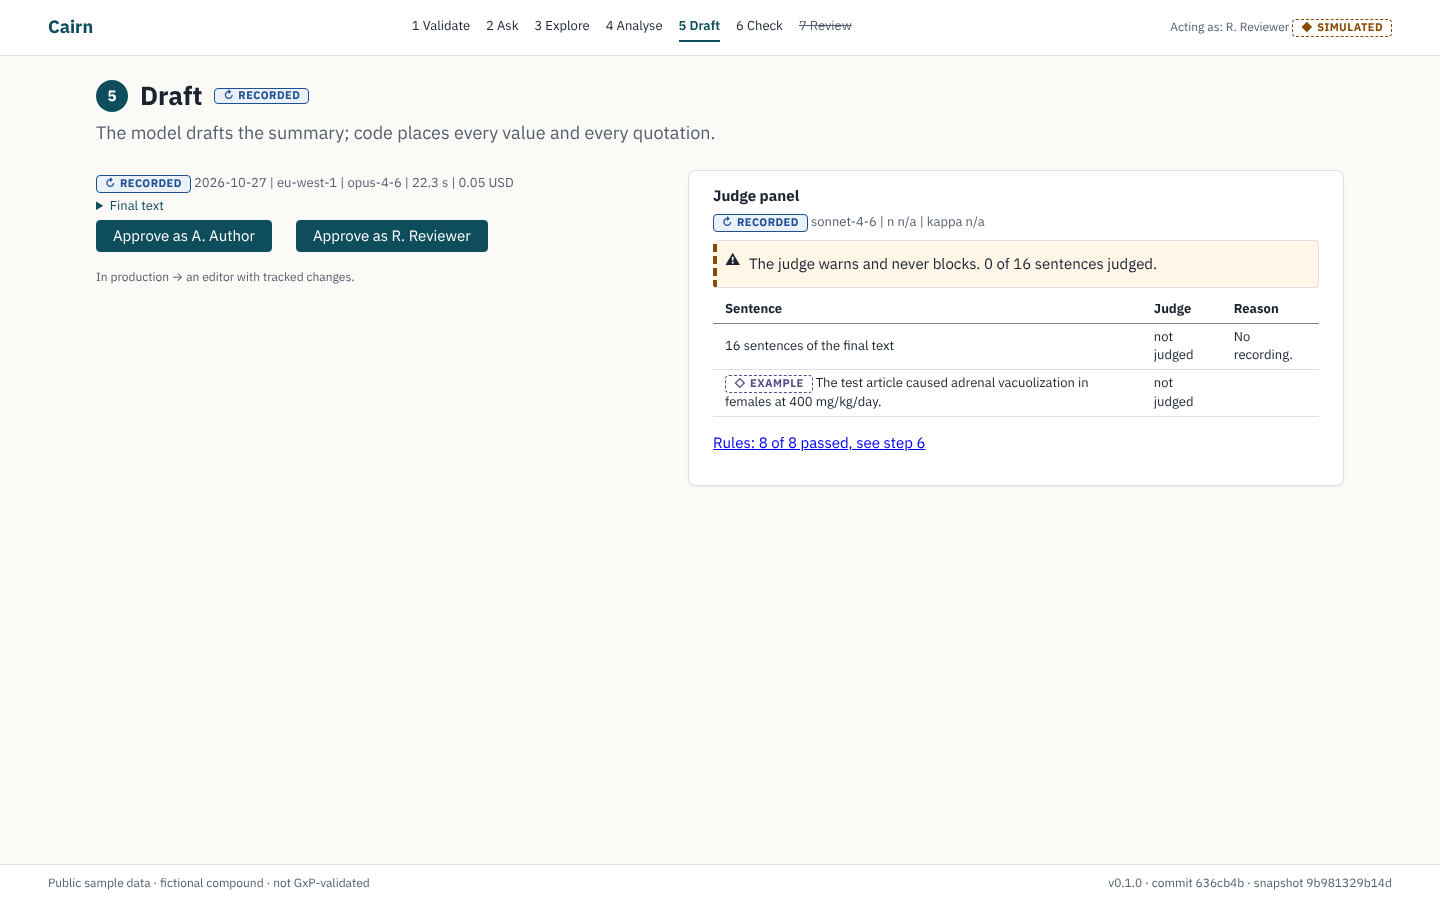
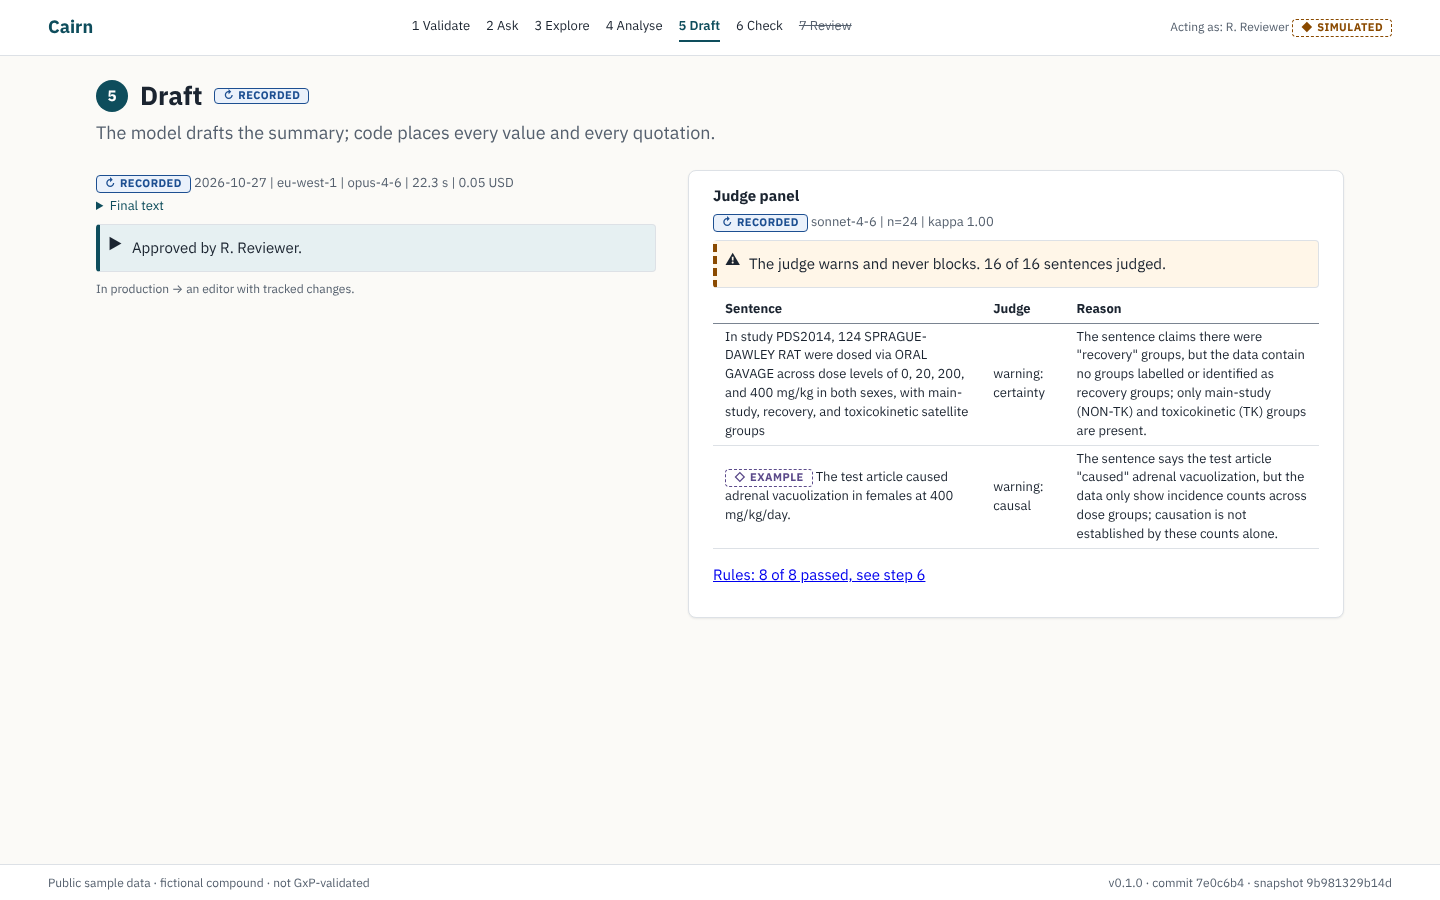
Close phase 05 increment 3 on the user's judge recordings: retake step 5 and 6 screenshots, fix step 5 tests for real recordings

diff --git a/tests/test_web.py b/tests/test_web.py
@@ -1,9 +1,9 @@
 import hashlib
+import importlib
 import json
 import re
 import shutil
 import sqlite3
-import sys
 from pathlib import Path
 
 import pytest
@@ -521,7 +521,13 @@ def _step5_thread(client: TestClient) -> str:
     return id_
 
 
-def test_step5_without_judge_recordings_shows_not_judged_and_the_rules_line() -> None:
+def test_step5_without_judge_recordings_shows_not_judged_and_the_rules_line(
+    tmp_path: Path, monkeypatch: pytest.MonkeyPatch
+) -> None:
+    folder = tmp_path / "recordings"
+    shutil.copytree("recordings", folder, ignore=shutil.ignore_patterns("j-*.json"))
+    for name in ("cairn.web.people", "cairn.web.threads"):
+        monkeypatch.setattr(importlib.import_module(name), "RECORDINGS_DIR", folder)
     with TestClient(create_app()) as client:
         id_ = _step5_thread(client)
         page = client.get(f"/step/5?thread={id_}&actor=R.%20Reviewer").text
@@ -531,6 +537,17 @@ def test_step5_without_judge_recordings_shows_not_judged_and_the_rules_line() ->
         assert "Checks" not in page
         done = client.post("/step/5/approve", data={"thread": id_, "actor": "R. Reviewer"})
         assert "Approved by R. Reviewer" in done.text
+
+
+def test_step5_with_the_real_recordings_shows_real_verdicts(
+    monkeypatch: pytest.MonkeyPatch, tmp_path: Path
+) -> None:
+    monkeypatch.setenv("CAIRN_THREADS_DB", str(tmp_path / "threads.db"))
+    with TestClient(create_app()) as client:
+        id_ = _step5_thread(client)
+        page = client.get(f"/step/5?thread={id_}&actor=R.%20Reviewer").text
+        assert "16 of 16 sentences judged" in page and "sonnet-4-6" in page
+        assert "n=24" in page and "kappa 1.00" in page and "EXAMPLE" in page
 
 
 def test_step5_lists_each_warning_and_the_example_and_approval_still_works(
@@ -553,7 +570,7 @@ def test_step5_lists_each_warning_and_the_example_and_approval_still_works(
     folder = tmp_path / "recordings"
     shutil.copytree("recordings", folder)  # the real draft, no judge files yet
     for name in ("cairn.web.people", "cairn.web.threads"):
-        monkeypatch.setattr(sys.modules[name], "RECORDINGS_DIR", folder)
+        monkeypatch.setattr(importlib.import_module(name), "RECORDINGS_DIR", folder)
     monkeypatch.setenv("CAIRN_THREADS_DB", str(tmp_path / "threads.db"))
     state = gather_state()
     model = recorded_model(folder, "DRAFT", DEFAULT_MODEL)

diff --git a/docs/plans/fase-05-audit-judge/plan.md b/docs/plans/fase-05-audit-judge/plan.md
@@ -19,8 +19,8 @@ Reuse, not rebuild: `canonical.py` (hash), `web/threads.py` (events and per-thre
 
 - [x] 1. Audit chain and SEC-002: an `audit` module with the entry, `append` and the pure `verify_chain`; table in the threads SQLite file; events written in `web/threads.py` inside the thread lock (start, decisions, confirm, verify_final, refusals 403 and 409, approve; the judge entry arrives in increment 2); the single read-only endpoint `GET /api/threads/{id}/audit/verify`; tampering of a copy proven by tests only; the build records its snapshot and gather fails on a mismatch; `docs/security.md` SEC-002 row updated (C2, C3, C4, C5, C6) - verification: `uv run pytest -k "audit or snapshot"`, `tests/evals/test_e6.py` - evidence: `uv run pytest -k "audit or snapshot"` 18 passed (chain links and determinism, 10 tamper cases plus truncated tail with the stated head-hash limit, events of the walkthrough with 403 and 409 refusals and none for 422 or 404, the single GET verify endpoint, snapshot mismatch fails gather); `tests/evals/test_e6.py` 21 passed; `npm run check` exit 0, 572 passed, coverage 97.24% (threshold 85%); SEC-002 row of `docs/security.md` marked fixed. Refusals are chained for 403 and for the verify_final 409 on confirm and approve; the wrong-step 409 changes nothing and adds none
 - [x] 2. Judge core and E5, offline: `judge` module (prompt, strict tool reusing `JUDGE_TOOL`, per-sentence call through the gateway, digit-free reason, "not judged" on refusal or truncation, kappa function); the graph node after `verify_final` that never changes `final.ok`; the judge audit entry; the E5 case file (24 cases, 4 kinds) and `tests/evals/test_e5.py` against a hand-written fixture recording under `tests/fixtures/recordings/`; E6 updated for the replay calls (C7, C8 offline part, C1) - verification: `uv run pytest -k "judge or kappa"`, `tests/evals/test_e5.py`, `tests/evals/test_e6.py` - evidence: `uv run pytest -k "judge or kappa"` 23 passed (verdict per sentence, digit reason dropped, refusal/truncation/malformed give not judged, no recording gives not judged, stale on prompt or schema change, judge never changes `final.ok` and approval succeeds with a warning, judge audit entry with counts only, kappa on hand-computed examples, record-judge with a fake client within the ceiling and the 4-decimal spend); `tests/evals/test_e5.py` 4 passed (24 cases built by code, 12 faithful and 12 overstated in 4 kinds, case file equals the builder, kappa 0.83 of the hand-written fixture recordings against the 0.70 threshold); `tests/evals/test_e6.py` 21 passed (judge replay calls counted); `npm run check` exit 0, 595 passed, coverage 96.98%. Judge recordings are one file per sentence (`j-<hash>.json`, keyed by sentence and cited data); `make record-judge` is ready and was not run: 41 sentences (24 E5, draft under the example decisions, the EXAMPLE sentence), ceiling 0.74 USD of 2.00, expected spend about 0.3 USD; result file `data/judge/e5_result.json`
-- [ ] 3. Judge recording and calibration (the only Bedrock increment): `make record-judge` records the E5 cases, the example-decisions draft sentences and the example overstated sentence with Sonnet 4.6 in eu-west-1; prints the estimated ceiling first and the real spend after; saves only within the ceiling; writes the kappa result file; at most 2 prompt revisions, then stop and return `necesita decisión` if kappa is under the threshold (C8, C9) - verification: `uv run pytest -k "recordings_metadata or judge_replay"`, `tests/evals/test_e5.py` offline on the real files; `make record-judge` cost output
-- [x] 4. Steps 5 and 6 in the app and demo: judge panel in step 5 with the EXAMPLE row, "not judged" and the 8 checks moved per decision O6; step 6 built (rules table to the 02c mockup, one chain status line from the verify endpoint, the "In production -> external append-only log" note, REAL badge); redirect without a thread; word cap test extended; screenshots at 1440x900 in `evidence/`; offline check extended to steps 5 and 6 (C10, C11, C12, C13) - verification: `uv run pytest -k "step5 or step6 or word_cap"`, browser walkthrough with network off, `make demo-offline-check` - evidence: `uv run pytest -k "step5 or step6 or word_cap"` 31 passed (judge panel with fixture recordings: warning rows, EXAMPLE row, approval still works; no judge files gives one "not judged" row; rules line "Rules: 8 of 8 passed, see step 6"; step 6 rules table, chain status line, production note, REAL badge, redirects; word cap states step5 and step6); `npm run check` exit 0, 600 passed, coverage 96.98%; screenshots at 1440x900 in `evidence/step5.png` and `evidence/step6.png`, scrollHeight 900 and 900 (no vertical overflow), taken in replay with no judge recordings in `recordings/` (all sentences "not judged", kappa n/a), after the example walkthrough: the supervisor retakes them after increment 3; the judge panel shows the warnings plus one row for all sentences not judged, to stay on one screen; offline check extended to steps 5 and 6: plain `make demo-offline-check` failed (Docker Hub 429 on the base image), so a thin uncommitted layer over the existing `cairn:latest` (new `src`, `recordings`, DuckDB rebuilt) ran `python -m cairn.offline_check` with `--network none`: steps 4-6 checks all ok; `kappa` reads `data/judge/e5_result.json`, which the Dockerfile does not copy yet (add `COPY data/judge` with increment 3)
+- [x] 3. Judge recording and calibration (the only Bedrock increment): `make record-judge` records the E5 cases, the example-decisions draft sentences and the example overstated sentence with Sonnet 4.6 in eu-west-1; prints the estimated ceiling first and the real spend after; saves only within the ceiling; writes the kappa result file; at most 2 prompt revisions, then stop and return `necesita decisión` if kappa is under the threshold (C8, C9) - verification: `uv run pytest -k "recordings_metadata or judge_replay"`, `tests/evals/test_e5.py` offline on the real files; `make record-judge` cost output - evidence: recorded by the user on the laptop (commit a1bbc69), because the cloud container's Bedrock credentials were rejected (U4); Sonnet 4.6 (`sonnet-4-6`) in eu-west-1, 41 recordings (24 E5, draft under the example decisions, the EXAMPLE sentence), spend 0.2710 USD of 2.00, kappa 1.00 on n=24 (threshold 0.70), no prompt revision (`judge-1`). Verified offline with no Bedrock call (E177): all 41 `recordings/j-*.json` parse on Linux with model, region, date, latency, tokens and cost on every call, no CR left, summed `cost_usd` 0.2708 USD (the user's 0.2710 to rounding); `make demo-offline-check`: the plain target failed on build (`uv sync` in the base stage failed, no Docker Hub 429 this time), so an uncommitted thin layer over the local `cairn:latest` (new `src`, `recordings`, `data/judge`, DuckDB rebuilt) ran `python -m cairn.offline_check` with `--network none`: steps 4-6 checks all ok, including step 5 showing the recorded n=24 and kappa 1.00; `uv run pytest -k "recordings_metadata or judge_replay"` 55 passed; `tests/evals/test_e5.py`, `tests/evals/test_e6.py` and `tests/test_word_cap.py` 52 passed; `npm run check` exit 0, 652 passed, coverage 96.9%. CI fix: `test_step5_without_judge_recordings...` assumed `recordings/` held no judge files; it now uses a temp copy without them, and a new test checks the real verdicts (16 of 16 judged, n=24, kappa 1.00)
+- [x] 4. Steps 5 and 6 in the app and demo: judge panel in step 5 with the EXAMPLE row, "not judged" and the 8 checks moved per decision O6; step 6 built (rules table to the 02c mockup, one chain status line from the verify endpoint, the "In production -> external append-only log" note, REAL badge); redirect without a thread; word cap test extended; screenshots at 1440x900 in `evidence/`; offline check extended to steps 5 and 6 (C10, C11, C12, C13) - verification: `uv run pytest -k "step5 or step6 or word_cap"`, browser walkthrough with network off, `make demo-offline-check` - evidence: `uv run pytest -k "step5 or step6 or word_cap"` 31 passed (judge panel with fixture recordings: warning rows, EXAMPLE row, approval still works; no judge files gives one "not judged" row; rules line "Rules: 8 of 8 passed, see step 6"; step 6 rules table, chain status line, production note, REAL badge, redirects; word cap states step5 and step6); `npm run check` exit 0, 600 passed, coverage 96.98%; screenshots at 1440x900 in `evidence/step5.png` and `evidence/step6.png`, scrollHeight 900 and 900 (no vertical overflow), retaken in E177 on the real judge recordings, serving the app offline (replay) on localhost and driving the real UI with Chromium after the example walkthrough (example decisions, confirm, author refused, reviewer approves): step 5 shows 16 of 16 sentences judged, two warnings, n=24 and kappa 1.00, scrollHeight 900 (no vertical overflow, word cap test green); step 6 scrollHeight 900; the judge panel shows the warnings plus one row for all sentences not judged, to stay on one screen; offline check extended to steps 5 and 6: plain `make demo-offline-check` failed (Docker Hub 429 on the base image), so a thin uncommitted layer over the existing `cairn:latest` (new `src`, `recordings`, DuckDB rebuilt) ran `python -m cairn.offline_check` with `--network none`: steps 4-6 checks all ok; `kappa` reads `data/judge/e5_result.json`, which the Dockerfile does not copy yet (add `COPY data/judge` with increment 3)
 - [ ] 5. Adversarial review: independent review with sdd-review over the phase range, four lenses (correctness, security and data, evidence and tests, scope and maintenance), at most two rounds; confirmed findings fixed with regressions; open items after round 2 go to the user (all criteria) - verification: review table below
 - [ ] 6. Delivery: PRD-term grep (needs the git-ignored PRD on the user's machine; stated if not run), push the phase branch and open the PR to `main`, not merged, with the `evals` check green (C1, C13) - verification: `gh pr checks` green, PR URL in Results
 
